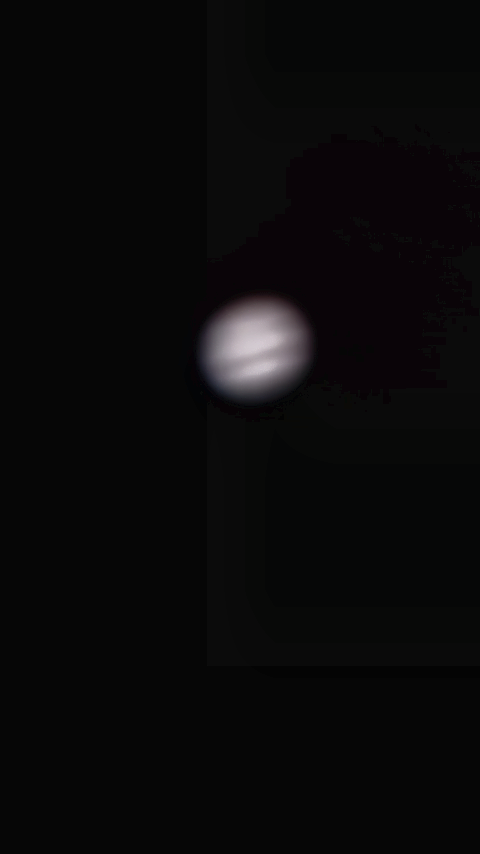
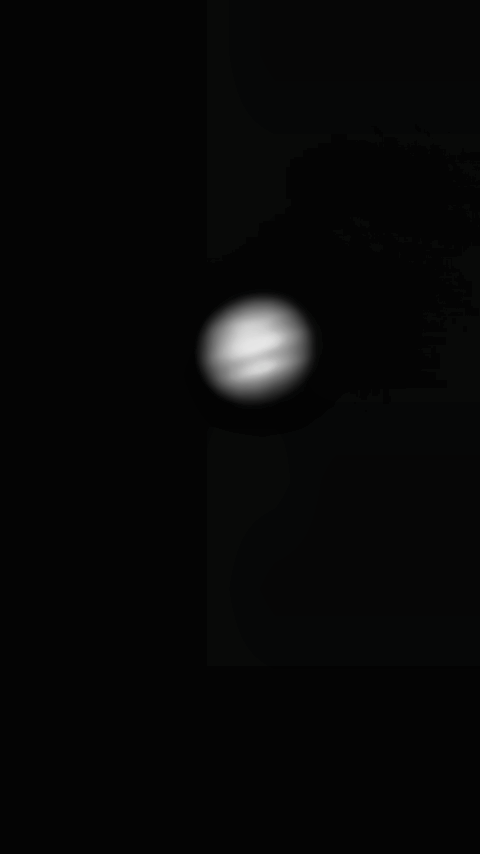
minor changes to histogram intensity. fix color reduction in sharpening.py

Changed region(s): [[0.4688, 0.3653, 0.625, 0.4567]]

diff --git a/unsharp_mask.py b/unsharp_mask.py
@@ -11,7 +11,7 @@ def unsharp_mask(image, sigma=1.0, amount=1.5, threshold=0):
     return sharpened
 
 # load files and call functions
-image_path = "stacked_images/stacked_jupiter.png"  
+image_path = "stacked_images/sharpened_jupiter.png"  
 image = cv2.imread(image_path)
 
 if image is None:
@@ -24,6 +24,6 @@ else:
     lab = cv2.cvtColor(sharpened, cv2.COLOR_BGR2LAB)
     
     # save to file
-    output_path = "stacked_images/sharpened_jupiter.png" #change for other planets
+    output_path = "stacked_images/unsharp_jupiter.png" #change for other planets
     cv2.imwrite(output_path, sharpened)
     print(f"saved sharpened image as {output_path}")

diff --git a/histogram_equalizer.py b/histogram_equalizer.py
@@ -9,7 +9,7 @@ def enhance_contrast(image):
     lab = cv2.cvtColor(image, cv2.COLOR_BGR2LAB)  
     l, a, b = cv2.split(lab)
 
-    clahe = cv2.createCLAHE(clipLimit=3.0, tileGridSize=(8,8))
+    clahe = cv2.createCLAHE(clipLimit=2.0, tileGridSize=(8,8))
     l = clahe.apply(l)
 
     enhanced = cv2.merge((l, a, b))
